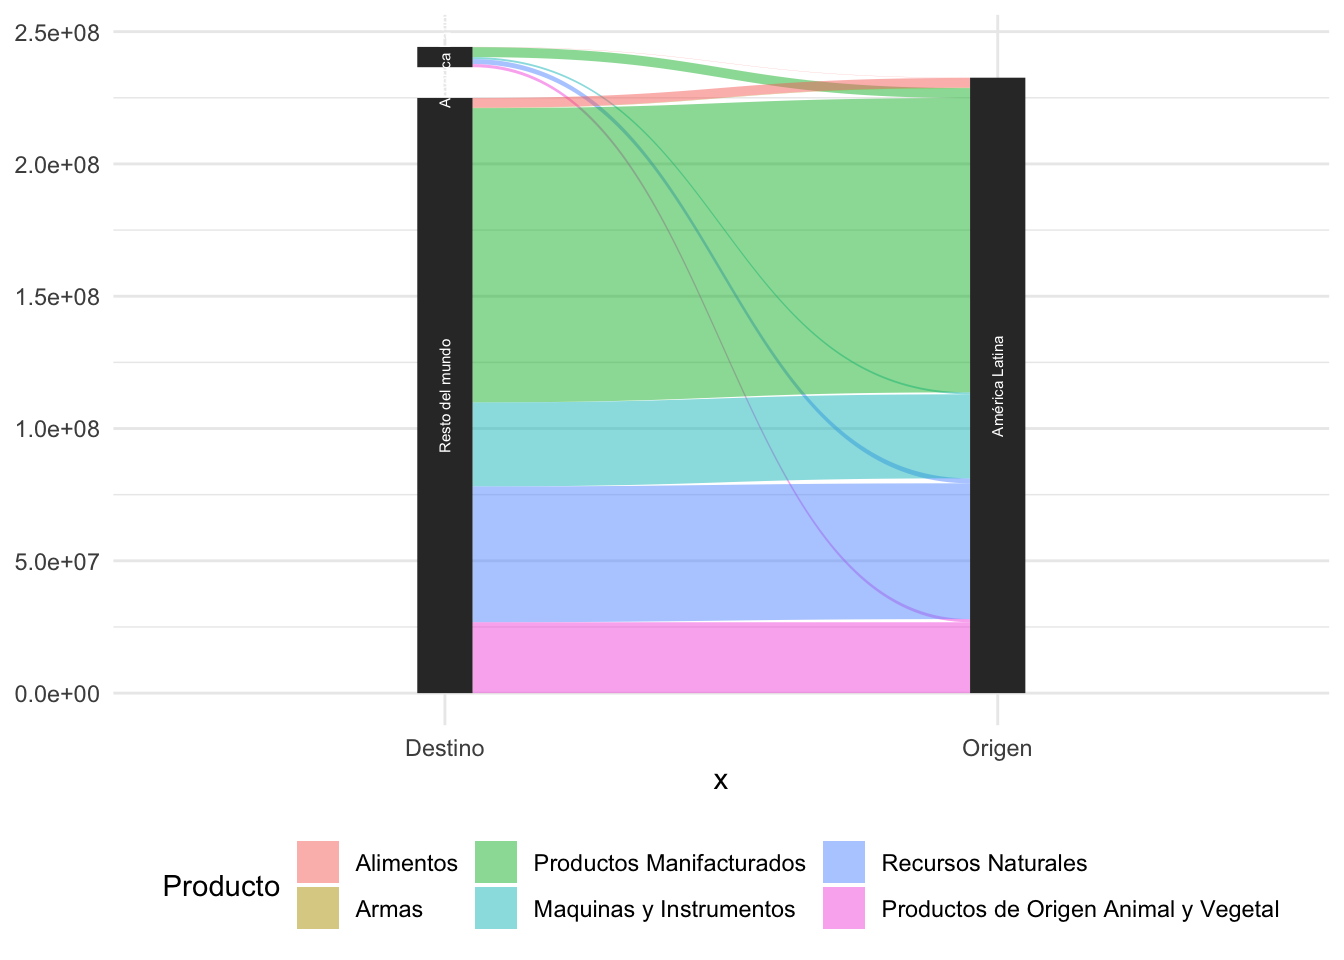
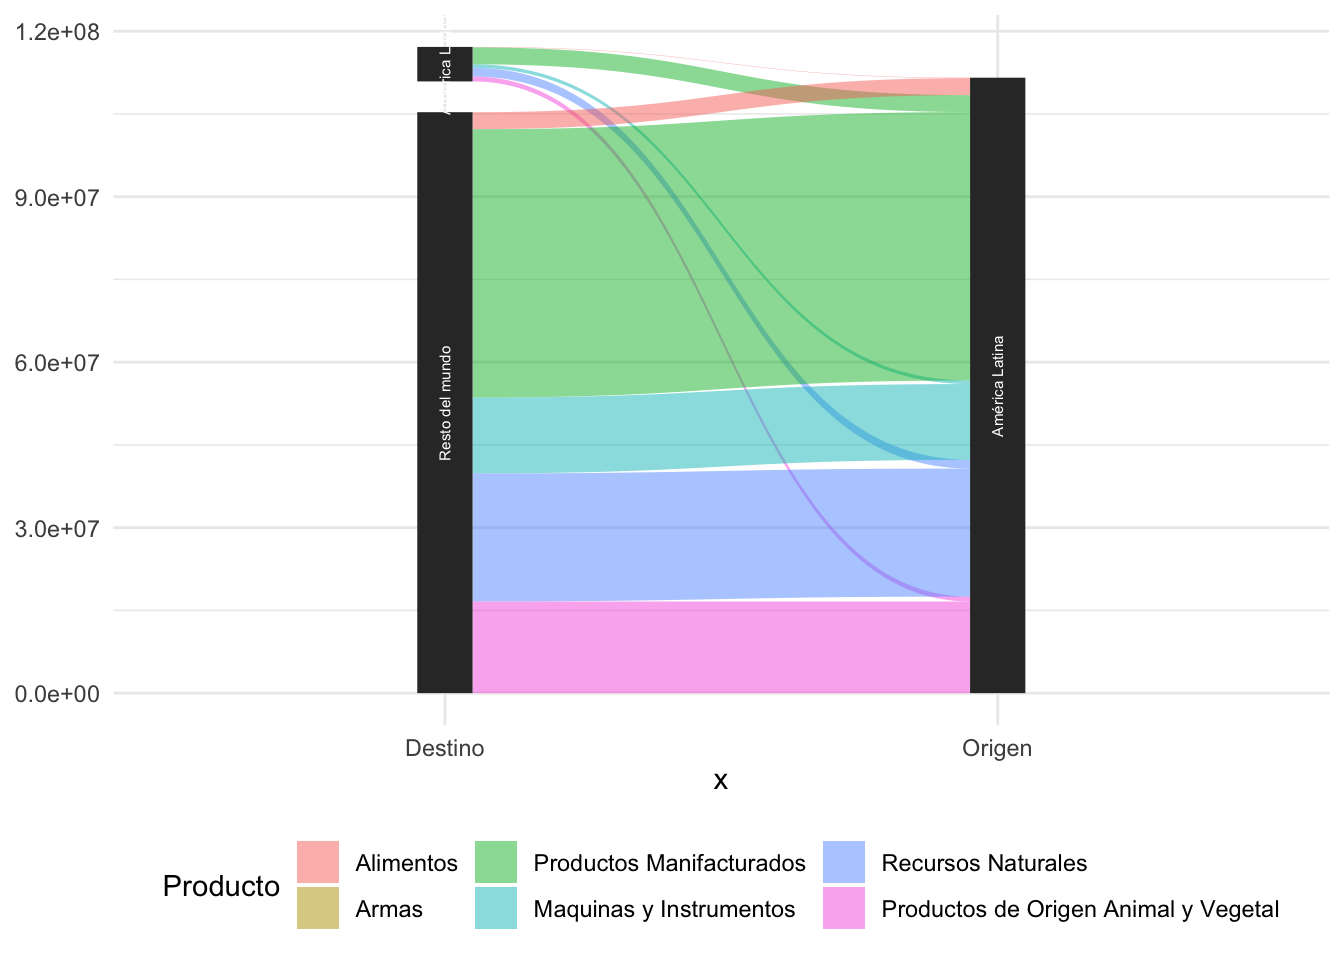
Commiting changes of used ggtheme

diff --git a/content/post/2020-12-07-exportacion-argentina/index.html b/content/post/2020-12-07-exportacion-argentina/index.html
@@ -18,100 +18,91 @@ output:
 <p>En primer lugar, aprendo las librarias que voy a necesitar para realizar el analisis:</p>
 <pre class="r"><code>library(tidyverse)
 library(ggplot2)
-library(tradestatistics)</code></pre>
+library(tradestatistics)
+library(treemapify)
+library(ggthemes)</code></pre>
 <div id="los-datos" class="section level2">
 <h2>Los datos:</h2>
 <p>Después voy cargando el base de datos que deseo utilizar:</p>
-<pre class="r"><code>comercio_arg &lt;- tradestatistics::ots_create_tidy_data(years = 1980:2018, reporters = &quot;arg&quot;) </code></pre>
+<pre class="r"><code>argentina_export &lt;- tradestatistics::ots_create_tidy_data(
+  years = 1980:2018, 
+  reporters = &quot;arg&quot;,
+  partners = &quot;all&quot;,
+  products = &quot;all&quot;) %&gt;%
+  group_by(year) %&gt;%
+  summarise(
+    export_value_usd = sum(export_value_usd, na.rm = T))</code></pre>
 </div>
 <div id="transformando-los-datos" class="section level2">
 <h2>Transformando los datos:</h2>
 <p>Eligo los datos necesarios para realizar el analisis del desarrollo historico de las exportaciones argentinas desde 1980 hasta 2018, filtrando Argentina y summando el valor en USD de sus exportaciones de cada año incluido en el analisis:</p>
-<pre class="r"><code>argentina_export_reducida &lt;- comercio_arg %&gt;%
-  group_by(year) %&gt;%
-  summarise(
-    export_value_usd = sum(export_value_usd, na.rm = T))
-
-data.frame(argentina_export_reducida)
-##    year export_value_usd
-## 1  1980       9995472614
-## 2  1981      10881904159
-## 3  1982       9627289806
-## 4  1983      10142191318
-## 5  1984       9991029974
-## 6  1985      10113085261
-## 7  1986       8644911151
-## 8  1987       8309716812
-## 9  1988      11900774926
-## 10 1989      13176601533
-## 11 1990      15689197694
-## 12 1991      15807138791
-## 13 1992      12564911891
-## 14 1993      15458530988
-## 15 1994      19063254091
-## 16 1995      24558768100
-## 17 1996      25541905040
-## 18 1997      28743051386
-## 19 1998      29099346076
-## 20 1999      25348110962
-## 21 2000      28726930658
-## 22 2001      29913016739
-## 23 2002      29451934205
-## 24 2003      33741276473
-## 25 2004      40020298718
-## 26 2005      46262620584
-## 27 2006      52874945269
-## 28 2007      63052574657
-## 29 2008      83863657011
-## 30 2009      63481866450
-## 31 2010      76210445978
-## 32 2011      91358702514
-## 33 2012      89383919573
-## 34 2013      84917359013
-## 35 2014      75933705869
-## 36 2015      64858102686
-## 37 2016      64414017618
-## 38 2017      66103021437
-## 39 2018      76034304593</code></pre>
 </div>
 <div id="graficando" class="section level2">
 <h2>Graficando</h2>
 <p>Ahora a graficar:</p>
-<pre class="r"><code>ggplot(data = argentina_export_reducida, aes(x = year, y = export_value_usd)) +
+<pre class="r"><code>ggplot(data = argentina_export, aes(x = year, y = export_value_usd)) +
   geom_line() +
   labs(
     x = &quot;Años&quot;,
     y = &quot;Valor Exportado en USD&quot;,
     title = &quot;Exportaciones de Argentina por año&quot;,
-    caption = &quot;FUENTE: Open Trade Statistics&quot;) +
-  theme_minimal() +
+    caption = &quot;Fuente: Open Trade Statistics&quot;) +
+  theme_economist() +
   theme(legend.position = &quot;bottom&quot;)</code></pre>
 <p><img src="index_files/figure-html/argentina%20export%20grafico-1.png" width="672" /></p>
 </div>
-<div id="exportación-de-productos" class="section level1">
-<h1>Exportación de productos</h1>
-<p>Ahora bien, querría demostar que tipo de productos que se exportó desde Argentina en el año 2017.</p>
+<div id="argentina-se-exporta-más-hacia-américa-latina-o-el-resto-del-mundo" class="section level1">
+<h1>¿Argentina se exporta más hacia América Latina o el resto del mundo?</h1>
+<p>Querría analizar si en Argentina se exporta más hacia América Latina o hacia el resto del mundo.</p>
+<div id="los-datos-1" class="section level2">
+<h2>Los datos</h2>
+<p>Eligí utilizar el base de datos de Datos de Miércoles de mayo 2019 (link), ya tenía ciertos problemas de “newbee” en utilizar el API de Tradestatistics y no encontré como podría llegar a cargar la informar sobre los países destinos de las exportaciones.</p>
+<p>Entonces, para este analisis utilizar el base de datos de Datos de Miercoles, que ya viene con la información sobre los países destinos. Primero, filtro por Argentina como el país de origen de las exportaciones (utilizando el codigo ISO de origen para hacer eso). Segundo, genero una nueva variable dummy que domina si el país de destino pertenece a América Latina o no (si pertenece se domina con 1, si no se domina con 0). Después se grupea por region y año, y por ultimó se suma el valor total en USD de las exportaciones:</p>
+<pre class="r"><code>comercio_mundo &lt;- readr::read_csv(&quot;https://raw.githubusercontent.com/cienciadedatos/datos-de-miercoles/master/datos/2019/2019-05-01/comercio_hispanoamerica_mundo_agregado.csv&quot;) 
+
+comercio_arg &lt;- comercio_mundo %&gt;% 
+  filter(codigo_iso_origen == &quot;arg&quot;) %&gt;%
+  mutate(
+    region = ifelse(pais_destino_pertenece_a_hispanoamerica == 1, &quot;América Latina&quot;, &quot;Resto del mundo&quot;)) %&gt;%
+  group_by(anio, 
+           region) %&gt;%
+  summarise(
+    valor_exportado_dolares = sum(valor_exportado_dolares, na.rm = T))</code></pre>
+</div>
+<div id="graficando-1" class="section level2">
+<h2>Graficando</h2>
+<p>Ahora bien, se grafica la cantidad de USD exportado hacía América Latina y hacía el resto del mundo por año:</p>
+<pre class="r"><code>ggplot(data = comercio_arg,aes(x = anio, y = valor_exportado_dolares, fill = region)) +
+  geom_col(position = &quot;dodge2&quot;) +
+  labs(
+    x = &quot;Años&quot;,
+    y = &quot;Valor Exportado en USD&quot;,
+    title = &quot;Exportaciones de Argentina por region&quot;) +
+  theme_economist() +
+  theme(legend.position = &quot;bottom&quot;)</code></pre>
+<p><img src="index_files/figure-html/arg%20export%20grafico-1.png" width="672" /></p>
+<p>Está claro que la mayoría de las exportaciones de Argentina va hacia el resto del mundo.</p>
+<p>No obstante, también sería interesante averiguar qué las categoría de productos que se exporta más desde Argentina:</p>
+</div>
+</div>
+<div id="exportación-por-producto" class="section level1">
+<h1>Exportación por producto</h1>
+<p>Querría averiguar qué productos se ha exportado más desde Argentina en los últimos años. Para eso necesito juntar el base de datos de arriba con el otro de Open Trade Statistics como he hecho en los posts anteriores:</p>
 <div id="cargando-los-datos" class="section level2">
 <h2>Cargando los datos</h2>
-<p>Para hacer el analisis más agil y fácil de entender (y porqué me costó bastante encontrar la vuelta al API de tradestatistics - newbee problems) eligí hacer este analisis utilizando el base de datos publicado para Datos de Miércoles en mayo 2019:</p>
-<pre class="r"><code>comercio_latam &lt;- readr::read_csv(&quot;https://raw.githubusercontent.com/cienciadedatos/datos-de-miercoles/master/datos/2019/2019-05-01/comercio_hispanoamerica_mundo_agregado.csv&quot;) </code></pre>
-</div>
-<div id="transformando-los-datos-1" class="section level2">
-<h2>Transformando los datos:</h2>
-<p>Eligo los datos de Argentina para el año 2017 y los agrupo por categoría de productos.</p>
-<pre class="r"><code>export_argentina_2017 &lt;- comercio_latam %&gt;%
-  filter(anio == 2017, codigo_iso_origen == &quot;arg&quot;) %&gt;%
-  group_by(anio, nombre_comunidad_producto, color_comunidad_producto) %&gt;%
+<p>Cargo la información sobre los nombres de los productos, y cambia el nombre de la columna para que se pueda juntar con la</p>
+<pre class="r"><code>
+export_argentina_2017 &lt;- comercio_mundo %&gt;%
+  filter(anio == 2017, 
+         codigo_iso_origen == &quot;arg&quot;) %&gt;%
+  group_by(anio, 
+           nombre_comunidad_producto,
+           color_comunidad_producto) %&gt;%
   summarise(valor_exportado_dolares = sum(valor_exportado_dolares, na.rm = T)) %&gt;%
   ungroup() %&gt;%
   mutate(
     etiquetas = paste0(nombre_comunidad_producto, &quot;/&quot;, round(100*valor_exportado_dolares/sum(valor_exportado_dolares), 2), &quot;%&quot;)
     )</code></pre>
-</div>
-<div id="graficando-1" class="section level2">
-<h2>Graficando</h2>
-<p>Para este ejercicio, además, voy a necesitar otra libraría, así antes de empezar a graficar los resultados aprendo la libraría de Treemapify:</p>
-<pre class="r"><code>library(treemapify)</code></pre>
 <p>Ahora grafico utilizando ggplot y treemap para mostar el procentage de cada categoría de productos que la Argentina exportó durante 2017:</p>
 <pre class="r"><code>ggplot(export_argentina_2017, aes(
   area = valor_exportado_dolares, 
@@ -123,8 +114,11 @@ data.frame(argentina_export_reducida)
                     grow = F,
                     reflow = T) +
   scale_fill_manual(values = export_argentina_2017$color_comunidad_producto) +
-  labs(title = &quot;Categorías de productos exportado de Argentina a nivel Mundial (2017)&quot;) +
+  labs(title = &quot;Categorías de productos exportado Argentina&quot;,
+       caption = &quot;Fuente: Open Trade Statistics&quot;) +
+  theme_economist() +
   theme(legend.position = &quot;none&quot;)</code></pre>
-<p><img src="index_files/figure-html/argentina%20export%20productos%20grafico-1.png" width="672" /></p>
+<p><img src="index_files/figure-html/arg%20productos%20grafico-1.png" width="672" />
+Se nota que la mayoría de los productos que exporta Argentina son productos vegetales, alimentos, productos animales o vegetales. Es decir, recursos naturales extraidos de la tierre o productos agriorula (!!!). No soprene mucho, ya que unos de los principales argumentos de los autores de “middel income trap” es que América Latina, en general, son paises que necesitan desarrollar su ventaja competitiva en otros areas que la agricultura y la farmicación de alimentos - areas donde se necesita más habilidades y entonces puede vender los productos más caros en el mercado global.</p>
 </div>
 </div>

diff --git a/content/post/2020-12-07-datos-historicos/index.html b/content/post/2020-12-07-datos-historicos/index.html
@@ -14,12 +14,13 @@ output:
 <script src="index_files/anchor-sections/anchor-sections.js"></script>
 
 
-<p>En este post, querría analizar la evolución del comercio en la región de América Latin utilizando el base de dato de Open Trade Statistics:</p>
+<p>En este post, querría analizar la evolución historico del comercio para toda la región de América Latin utilizando el base de dato de Open Trade Statistics. Por un lado, me interesa investigar como ha sido el desarrollo tanto de las exportaciones como las importaciones para toda la región en conjunto.. Por el otro lado, me interesa saber qué paísestienen los mayores niveles de comercio en la región.</p>
 <div id="las-libraría-utilizadas" class="section level3">
 <h3>Las libraría utilizadas:</h3>
 <pre class="r"><code>library(tidyverse)
 library(tradestatistics)
-library(ggplot2)</code></pre>
+library(ggplot2)
+library(ggthemes)</code></pre>
 </div>
 <div id="los-datos" class="section level2">
 <h2>Los datos</h2>
@@ -50,7 +51,36 @@ I rename the column “reporter_iso” to be able to merge it with the second da
          country_iso != &quot;vgb&quot;, # Excluding British Virgin Islands
          country_iso != &quot;sgs&quot;) # Exclude South Georgia and the South Sandwich Islands (British territory)</code></pre>
 </div>
+<div id="importación-y-exportación-en-américa-latina" class="section level1">
+<h1>Importación y exportación en América Latina</h1>
 <div id="transformando-los-datos" class="section level2">
+<h2>Transformando los datos</h2>
+<pre class="r"><code>trade_total &lt;- comercio_latam_reducido %&gt;%
+  group_by(year) %&gt;%
+  summarise(export_value_usd = sum(export_value_usd, na.rm = T),
+            import_value_usd = sum(import_value_usd, na.rm = T))</code></pre>
+<pre class="r"><code>ggplot(trade_total) +
+  geom_line(aes(year,
+                export_value_usd,
+                color = &quot;red&quot;)) +
+  geom_line(aes(year,
+                import_value_usd,
+                color = &quot;blue&quot;)) +
+    labs(title = &quot;Import y export de América Latina&quot;,
+       y = &quot;USD&quot;,
+       x = NULL,
+       caption = &quot;Fuente: Open Trade Statistics&quot;) +
+  theme_economist() +
+  theme(legend.position = &quot;bottom&quot;)</code></pre>
+<p><img src="index_files/figure-html/comercio%20LATAM%20export-import%20graph-1.png" width="672" /></p>
+<div id="sum-up" class="section level3">
+<h3>Sum-up</h3>
+</div>
+</div>
+</div>
+<div id="comercio-historico-en-américa-latina" class="section level1">
+<h1>Comercio historico en América Latina</h1>
+<div id="transformando-los-datos-1" class="section level2">
 <h2>Transformando los datos</h2>
 <p>Before, I graph the results, I want to merge all the Caribbean countries into one category for the Caribbean countries:</p>
 <pre class="r"><code>
@@ -63,10 +93,11 @@ comercio_latam_caribbean &lt;- comercio_latam_modificado %&gt;%
          export_value_usd,
          import_value_usd) %&gt;%
   mutate(trade = sum(export_value_usd+import_value_usd, na.rm = T)) %&gt;%
+  arrange(desc(trade)) %&gt;%
   mutate(country_fullname_english = fct_collapse(country_fullname_english,
                                   &quot;Caribbean&quot; = c(&quot;Anguilla&quot;, 
                                                   &quot;Neth. Antilles&quot;, 
-                                                  &quot;Antigua and Barbuda&quot;, 
+                                                  &quot;Antigua and Barbuda&quot;,
                                                   &quot;Bahamas&quot;,
                                                   &quot;Barbados&quot;,
                                                   &quot;Belize&quot;,
@@ -90,15 +121,15 @@ comercio_latam_caribbean &lt;- comercio_latam_modificado %&gt;%
                                                   &quot;Turks and Caicos Isds&quot;,
                                                   &quot;Trinidad and Tobago&quot;,
                                                   &quot;Saint Vincent and the Grenadines&quot;),
-                                  &quot;Central America&quot; = c(&quot;Costa Rica&quot;,
-                                                        &quot;Dominica&quot;,
-                                                        &quot;Dominican Rep.&quot;,
-                                                        &quot;El Salvador&quot;,
-                                                        &quot;Guatemala&quot;,
-                                                        &quot;Honduras&quot;,
-                                                        &quot;Nicaragua&quot;,
-                                                        &quot;Panama (excludes Panama Canal Zone until 1978)&quot;),
-                                  &quot;Argentina&quot; = c(&quot;Argentina&quot;, &quot;Falkland Isds (Malvinas)&quot;)))</code></pre>
+                            &quot;Central America&quot; = c(&quot;Costa Rica&quot;,
+                                                  &quot;Dominica&quot;,
+                                                  &quot;Dominican Rep.&quot;,
+                                                  &quot;El Salvador&quot;,
+                                                  &quot;Guatemala&quot;,
+                                                  &quot;Honduras&quot;,
+                                                  &quot;Nicaragua&quot;,
+                                                  &quot;Panama (excludes Panama Canal Zone until 1978)&quot;),
+                            &quot;Argentina&quot; = c(&quot;Argentina&quot;, &quot;Falkland Isds (Malvinas)&quot;)))</code></pre>
 </div>
 <div id="graficando" class="section level2">
 <h2>Graficando</h2>
@@ -108,28 +139,27 @@ comercio_latam_caribbean &lt;- comercio_latam_modificado %&gt;%
                 group = country_fullname_english,
                 color = country_fullname_english)) +
   labs(title = &quot;Evolución comercial en América Latina&quot;,
-       y = &quot;Total comercio (import + export) en USD&quot;,
-       x = &quot;Año&quot;) +
+       y = &quot;Total comercio en USD&quot;,
+       x = NULL) +
+  theme_economist() +
   theme(legend.position = &quot;bottom&quot;)</code></pre>
 <p><img src="index_files/figure-html/comercio%20LATAM%20graph-1.png" width="672" /></p>
-<p>Entonces,…</p>
-<pre class="r"><code>trade_total &lt;- comercio_latam_caribbean %&gt;%
-  group_by(year) %&gt;%
-  summarise(export_value_usd = sum(export_value_usd, na.rm = T),
-            import_value_usd = sum(import_value_usd, na.rm = T))
+<p>Aún es difícil ver los detalles de los países con menores niveles de comercio, pero queda claro que Mexico y Brasil son los países con mayores flujos comerciales (tanto import como export, ya que tenemos que recordar que esos es la variable que hemos generado).</p>
+<pre class="r"><code>comercio_latam_caribbean1 &lt;- comercio_latam_caribbean %&gt;%
+  filter(country_fullname_english != &quot;Mexico&quot;,
+         country_fullname_english != &quot;Brazil&quot;,
+         country_fullname_english != &quot;Argentina&quot;)
 
-
-ggplot(trade_total) +
+ggplot(comercio_latam_caribbean1) +  
   geom_line(aes(year,
-                export_value_usd,
-                color = &quot;red&quot;)) +
-  geom_line(aes(year,
-                import_value_usd,
-                color = &quot;blue&quot;)) +
-    labs(title = &quot;Importaciones y exportaciones totales para todo América Latina&quot;,
-       y = &quot;USD&quot;,
-       x = &quot;Año&quot;,
-       caption = &quot;Fuente: Open Trade Statistics&quot;) +
+                trade,
+                group = country_fullname_english,
+                color = country_fullname_english)) +
+  labs(title = &quot;Evolución comercial en América Latina&quot;,
+       y = &quot;Total comercio en USD&quot;,
+       x = NULL) +
+  theme_economist() +
   theme(legend.position = &quot;bottom&quot;)</code></pre>
-<p><img src="index_files/figure-html/comercio%20LATAM%20export-import-1.png" width="672" /></p>
+<p><img src="index_files/figure-html/comercio%20LATAM%20graph2-1.png" width="672" /></p>
+</div>
 </div>

diff --git a/content/post/2020-12-07-exportacion/index.html b/content/post/2020-12-07-exportacion/index.html
@@ -19,27 +19,29 @@ output:
 <pre class="r"><code>library(tradestatistics) #parquete de los datos
 library(tidyverse)
 library(ggplot2)
-library(ggforce) #para graficos de sets paralelos</code></pre>
+library(ggforce) #para graficos de sets paralelos
+library(ggthemes)</code></pre>
 <p>En segundo lugar, eligo los datos que necesito para realizar el set de parelelo. Solamente se analiza para el año 2018:</p>
 <pre class="r"><code>export_producto_2017 &lt;- readr::read_csv(&quot;https://raw.githubusercontent.com/cienciadedatos/datos-de-miercoles/master/datos/2019/2019-05-01/comercio_hispanoamerica_mundo_agregado.csv&quot;) %&gt;%
   filter(anio == &quot;2017&quot;,
          nombre_comunidad_producto != &quot;Sin Especificar&quot;) %&gt;%
-  select(nombre_comunidad_producto,
+  group_by(nombre_comunidad_producto,
          valor_exportado_dolares,
          pais_origen_pertenece_a_hispanoamerica, 
          pais_destino_pertenece_a_hispanoamerica,
          color_comunidad_producto) %&gt;%
+  summarise(valor_exportado_dolares = sum(valor_exportado_dolares, na.rm = T)) %&gt;%
+  ungroup() %&gt;%
   mutate(
     Origen = ifelse(pais_origen_pertenece_a_hispanoamerica == 1, &quot;América Latina&quot;, &quot;Resto del mundo&quot;),
     Destino = ifelse(pais_destino_pertenece_a_hispanoamerica == 1, &quot;América Latina&quot;, &quot;Resto del mundo&quot;),
     Producto = as.factor(nombre_comunidad_producto))</code></pre>
 <pre class="r"><code>ggplot(export_producto_2017, aes(x = fct_infreq(Producto))) +
-  geom_bar(
-    color = &quot;white&quot;,
-    fill = &quot;blue&quot;) +
-  labs(title = &quot;Productos exportado de Argentina (2017)&quot;,
+  geom_bar() +
+  labs(title = &quot;Productos exportado America Latina (2017)&quot;,
        caption = &quot;Fuente: Open Trade Statistics&quot;) +
-  coord_flip()</code></pre>
+  coord_flip() +
+  theme_economist()</code></pre>
 <p><img src="index_files/figure-html/bar%20lot-1.png" width="672" /></p>
 <pre class="r"><code>cats_products &lt;- as.character(fct_unique(export_producto_2017$Producto))
 
@@ -50,7 +52,7 @@ export_producto_2017_reducido &lt;- export_producto_2017 %&gt;%
                                            &quot;Productos Vegetales&quot;,
                                            &quot;Pieles de Animales&quot;,
                                            &quot;Productos de Composición Vegetal y Animal&quot;),
-&quot;Productos Manifacturados&quot; = c(&quot;Arte y Antiguedades&quot;,
+            &quot;Productos Manifacturados&quot; = c(&quot;Arte y Antiguedades&quot;,
                                &quot;Artículos de Papel&quot;,
                                &quot;Miscelánea&quot;,
                                &quot;Calzado y Gorras&quot;,
@@ -91,6 +93,6 @@ export_producto_2017_reducido &lt;- export_producto_2017 %&gt;%
 ##  - attr(*, &quot;class&quot;)= chr [1:2] &quot;theme&quot; &quot;gg&quot;
 ##  - attr(*, &quot;complete&quot;)= logi FALSE
 ##  - attr(*, &quot;validate&quot;)= logi TRUE
-
+  
 export_producto_graficar</code></pre>
 <p><img src="index_files/figure-html/graficar-1.png" width="672" /></p>
